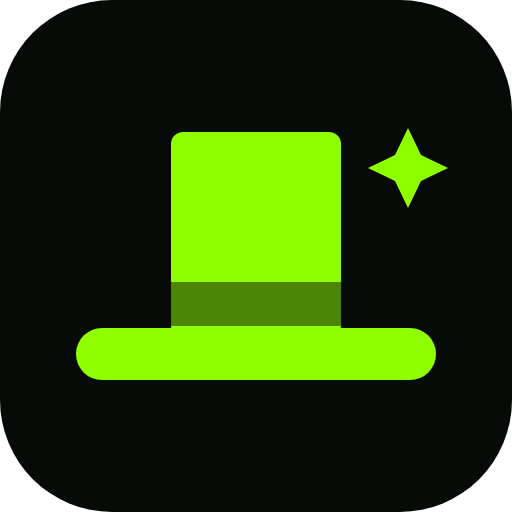
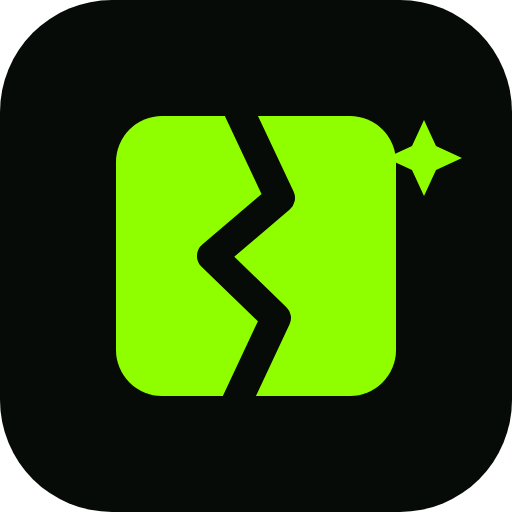
이름을 아이스브레이커로 바꾸고 마크를 얼음으로 갈아끼운다
매직쇼라는 이름이 내용과 어긋났다. 다섯 중 마술은 하나뿐이고 나머지는 인지
현상 둘에 게임 둘이라, 이 물건이 실제로 하는 일은 처음 만난 자리를 푸는 것이다.

이름을 바꾸니 실크해트가 혼자 마술쇼 얘기를 하게 돼서 마크도 같이 간다.
얼음 한 덩이가 갈라진 모양이다 — 16px 로 줄이면 '덩어리 둘과 그 사이 금'만
남으므로, 금은 배경색으로 뚫어 두 덩어리의 대비로만 읽히게 했다.

금에 클리핑을 걸었다. 아이콘은 배경이 단색이라 삐져나온 획이 안 보였는데,
OG 카드는 글로우 위라서 얼음 밖으로 검은 획이 그대로 드러났다.

URL 과 레포 이름은 /trick 그대로 둔다. 이름과 주소가 달라도 되는 선례가 있고
(wave-sound 가 '쉼, 바다'다), 이미 나간 주소를 흔들 이유가 없다.

Changed region(s): [[0.125, 0.2188, 0.9062, 0.7812]]

diff --git a/index.html b/index.html
@@ -6,25 +6,25 @@
 <meta name="theme-color" content="#070b07">
 <meta name="apple-mobile-web-app-capable" content="yes">
 <meta name="apple-mobile-web-app-status-bar-style" content="black-translucent">
-<meta name="apple-mobile-web-app-title" content="매직쇼">
+<meta name="apple-mobile-web-app-title" content="아이스브레이커">
 
-<title>규로롱 매직쇼 — 준비물 없는 아이스브레이킹 게임 5선</title>
-<meta name="description" content="폰 하나로 바로 꺼내는 아이스브레이킹 게임 5선. 사라지는 카드·변화맹·가짜기억·라이어·동시에 지목. 준비물도 연습도 없이, 처음 만난 자리에서 바로.">
+<title>아이스브레이커 — 처음 만난 자리에서 바로 하는 게임 5선</title>
+<meta name="description" content="처음 만난 자리에서 폰 하나로 바로 꺼내는 게임 5선. 사라지는 카드·변화맹·가짜기억·라이어·동시에 지목. 준비물도 연습도 없이.">
 <link rel="canonical" href="https://kyulolong.com/trick/">
 
 <meta property="og:type" content="website">
 <meta property="og:site_name" content="규로롱">
 <meta property="og:locale" content="ko_KR">
 <meta property="og:url" content="https://kyulolong.com/trick/">
-<meta property="og:title" content="규로롱 매직쇼 — 아이스브레이킹 게임 5선">
-<meta property="og:description" content="준비물도 연습도 없다. 폰 하나로 처음 만난 자리에서 바로 꺼내는 아이스브레이킹 게임 다섯 가지.">
+<meta property="og:title" content="아이스브레이커 — 처음 만난 자리, 5분이면 충분합니다">
+<meta property="og:description" content="준비물도 연습도 없다. 처음 만난 자리에서 폰 하나로 바로 꺼내는 아이스브레이킹 게임 다섯 가지.">
 <meta property="og:image" content="https://kyulolong.com/trick/og.png">
 <meta property="og:image:width" content="1200">
 <meta property="og:image:height" content="630">
-<meta property="og:image:alt" content="어두운 배경 위 형광 초록 실크해트와 '규로롱 매직쇼' 글자">
+<meta property="og:image:alt" content="어두운 배경 위 형광 초록 얼음 조각과 '아이스브레이커' 글자">
 <meta name="twitter:card" content="summary_large_image">
-<meta name="twitter:title" content="규로롱 매직쇼 — 아이스브레이킹 게임 5선">
-<meta name="twitter:description" content="준비물도 연습도 없다. 폰 하나로 처음 만난 자리에서 바로 꺼내는 아이스브레이킹 게임 다섯 가지.">
+<meta name="twitter:title" content="아이스브레이커 — 처음 만난 자리, 5분이면 충분합니다">
+<meta name="twitter:description" content="준비물도 연습도 없다. 처음 만난 자리에서 폰 하나로 바로 꺼내는 아이스브레이킹 게임 다섯 가지.">
 <meta name="twitter:image" content="https://kyulolong.com/trick/og.png">
 
 <!-- 이 앱은 kyulolong.com/trick/ 에 얹혀 있다. Traefik 이 /trick 을 떼고 넘기므로
@@ -39,9 +39,9 @@
 {
   "@context": "https://schema.org",
   "@type": "WebApplication",
-  "name": "규로롱 매직쇼",
+  "name": "아이스브레이커",
   "url": "https://kyulolong.com/trick/",
-  "description": "준비물도 연습도 없다. 폰 하나로 처음 만난 자리에서 바로 꺼내는 아이스브레이킹 게임 다섯 가지.",
+  "description": "준비물도 연습도 없다. 처음 만난 자리에서 폰 하나로 바로 꺼내는 아이스브레이킹 게임 다섯 가지.",
   "applicationCategory": "GameApplication",
   "operatingSystem": "Any",
   "browserRequirements": "JavaScript 필요",
@@ -372,8 +372,8 @@
 
 <noscript>
   <div style="max-width:440px;margin:0 auto;padding:28px 18px;color:#eaf5e0;font-family:-apple-system,BlinkMacSystemFont,'Apple SD Gothic Neo',sans-serif">
-    <h1 style="font-size:27px;font-weight:900">규로롱 매직쇼</h1>
-    <p style="color:#8fa38a;line-height:1.6;margin-top:8px">폰 하나로 시작하는 아이스브레이킹 5선<br>우와 3 · 게임 2 — 연습 없이, 실패 없이.</p>
+    <h1 style="font-size:27px;font-weight:900">아이스브레이커</h1>
+    <p style="color:#8fa38a;line-height:1.6;margin-top:8px">처음 만난 자리에서 폰 하나로 바로<br>우와 3 · 게임 2 — 준비물도 연습도 없이.</p>
     <ul style="margin-top:16px;line-height:2;color:#eaf5e0">
       <li>🃏 사라지는 카드 — 전원이 기억한 카드가 전부 동시에 사라진다</li>
       <li>🧐 사라진 거 찾기 — 대놓고 사라지는데 아무도 못 찾는다</li>
@@ -450,9 +450,9 @@ function goHome() {
   setHeader(null);
   const s = stage(`
     <div class="hero">
-      <div class="hat">🎩</div>
-      <h1><span class="dot" aria-hidden="true"></span>규로롱 <em>매직쇼</em></h1>
-      <p>폰 하나로 시작하는 아이스브레이킹 5선<br>우와 3 · 게임 2 — 연습 없이, 실패 없이.</p>
+      <div class="hat">🧊</div>
+      <h1><span class="dot" aria-hidden="true"></span>아이스<em>브레이커</em></h1>
+      <p>처음 만난 자리에서 폰 하나로 바로<br>우와 3 · 게임 2 — 준비물도 연습도 없이.</p>
     </div>
     <div class="tricklist">
       ${TRICKS.map((t,i) => `

diff --git a/README.md b/README.md
@@ -1,4 +1,4 @@
-# 규로롱 매직쇼
+# 아이스브레이커
 
 준비물도 연습도 없는 아이스브레이킹 게임 5선.
 처음 만난 자리에서 폰 하나로 바로 꺼낸다.
